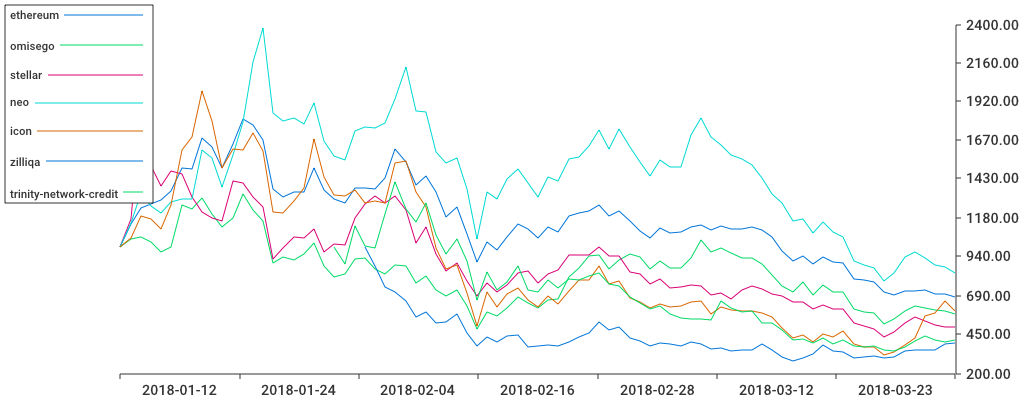
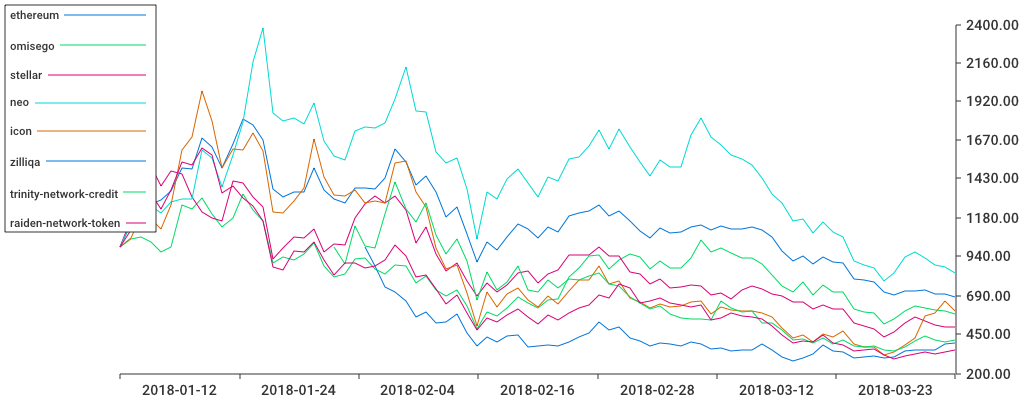
Charts updated

diff --git a/main.go b/main.go
@@ -189,9 +189,9 @@ func comparisonCharts() {
 
 func portfolioCharts() {
 	util.DrawPortfolioComparisonChart(1000.00, "2018-01-01", "large_cap", "bitcoin", "ethereum", "ripple", "litecoin", "bitcoin-cash", "zcash", "monero")
-	util.DrawPortfolioComparisonChart(1000.00, "2018-01-01", "protocol", "ethereum", "omisego", "stellar", "neo", "icon", "zilliqa", "trinity-network-credit")
+	util.DrawPortfolioComparisonChart(1000.00, "2018-01-01", "protocol", "ethereum", "omisego", "stellar", "neo", "icon", "zilliqa", "trinity-network-credit", "raiden-network-token")
 	util.DrawPortfolioComparisonChart(1000.00, "2018-01-01", "exchanges", "binance-coin", "augur", "gnosis-gno", "0x", "kyber-network", "bancor", "airswap", "republic-protocol")
 	util.DrawPortfolioComparisonChart(1000.00, "2018-01-01", "stables", "maker", "trust", "digixdao", "dai", "tether")
-	util.DrawPortfolioComparisonChart(1000.00, "2018-01-01", "utility", "basic-attention-token", "golem-network-tokens", "request-network", "funfair")
+	util.DrawPortfolioComparisonChart(1000.00, "2018-01-01", "utility", "basic-attention-token", "golem-network-tokens", "request-network", "funfair", "quantstamp")
 	util.DrawPortfolioComparisonChart(1000.00, "2018-01-01", "asia", "neo", "tron", "trinity-network-credit", "icon", "ontology", "storm", "bytom")
 }

diff --git a/charts/portfolio/utility.md b/charts/portfolio/utility.md
@@ -336,3 +336,87 @@
 * Date bought: 2018-01-01 - Current Date: 2018-01-03 00:00:00 +0000 UTC - Valuation: 1261.05 - Price: 0.11 
 * Date bought: 2018-01-01 - Current Date: 2018-01-02 00:00:00 +0000 UTC - Valuation: 1041.54 - Price: 0.09 
 * Date bought: 2018-01-01 - Current Date: 2018-01-01 00:00:00 +0000 UTC - Valuation: 1000.00 - Price: 0.09 
+### quantstamp
+* Date bought: 2018-01-01 - Current Date: 2018-03-24 00:00:00 +0000 UTC - Valuation: 359.71 - Price: 0.14 
+* Date bought: 2018-01-01 - Current Date: 2018-03-23 00:00:00 +0000 UTC - Valuation: 364.13 - Price: 0.14 
+* Date bought: 2018-01-01 - Current Date: 2018-03-22 00:00:00 +0000 UTC - Valuation: 377.49 - Price: 0.15 
+* Date bought: 2018-01-01 - Current Date: 2018-03-21 00:00:00 +0000 UTC - Valuation: 401.98 - Price: 0.16 
+* Date bought: 2018-01-01 - Current Date: 2018-03-20 00:00:00 +0000 UTC - Valuation: 393.68 - Price: 0.16 
+* Date bought: 2018-01-01 - Current Date: 2018-03-19 00:00:00 +0000 UTC - Valuation: 368.54 - Price: 0.15 
+* Date bought: 2018-01-01 - Current Date: 2018-03-18 00:00:00 +0000 UTC - Valuation: 351.17 - Price: 0.14 
+* Date bought: 2018-01-01 - Current Date: 2018-03-17 00:00:00 +0000 UTC - Valuation: 327.53 - Price: 0.13 
+* Date bought: 2018-01-01 - Current Date: 2018-03-16 00:00:00 +0000 UTC - Valuation: 364.22 - Price: 0.14 
+* Date bought: 2018-01-01 - Current Date: 2018-03-15 00:00:00 +0000 UTC - Valuation: 369.07 - Price: 0.15 
+* Date bought: 2018-01-01 - Current Date: 2018-03-14 00:00:00 +0000 UTC - Valuation: 363.30 - Price: 0.14 
+* Date bought: 2018-01-01 - Current Date: 2018-03-13 00:00:00 +0000 UTC - Valuation: 427.84 - Price: 0.17 
+* Date bought: 2018-01-01 - Current Date: 2018-03-12 00:00:00 +0000 UTC - Valuation: 444.72 - Price: 0.18 
+* Date bought: 2018-01-01 - Current Date: 2018-03-11 00:00:00 +0000 UTC - Valuation: 486.26 - Price: 0.19 
+* Date bought: 2018-01-01 - Current Date: 2018-03-10 00:00:00 +0000 UTC - Valuation: 407.71 - Price: 0.16 
+* Date bought: 2018-01-01 - Current Date: 2018-03-09 00:00:00 +0000 UTC - Valuation: 436.81 - Price: 0.17 
+* Date bought: 2018-01-01 - Current Date: 2018-03-08 00:00:00 +0000 UTC - Valuation: 427.52 - Price: 0.17 
+* Date bought: 2018-01-01 - Current Date: 2018-03-07 00:00:00 +0000 UTC - Valuation: 483.79 - Price: 0.19 
+* Date bought: 2018-01-01 - Current Date: 2018-03-06 00:00:00 +0000 UTC - Valuation: 522.40 - Price: 0.21 
+* Date bought: 2018-01-01 - Current Date: 2018-03-05 00:00:00 +0000 UTC - Valuation: 587.12 - Price: 0.23 
+* Date bought: 2018-01-01 - Current Date: 2018-03-04 00:00:00 +0000 UTC - Valuation: 602.41 - Price: 0.24 
+* Date bought: 2018-01-01 - Current Date: 2018-03-03 00:00:00 +0000 UTC - Valuation: 568.50 - Price: 0.22 
+* Date bought: 2018-01-01 - Current Date: 2018-03-02 00:00:00 +0000 UTC - Valuation: 601.49 - Price: 0.24 
+* Date bought: 2018-01-01 - Current Date: 2018-03-01 00:00:00 +0000 UTC - Valuation: 646.95 - Price: 0.26 
+* Date bought: 2018-01-01 - Current Date: 2018-02-28 00:00:00 +0000 UTC - Valuation: 637.33 - Price: 0.25 
+* Date bought: 2018-01-01 - Current Date: 2018-02-27 00:00:00 +0000 UTC - Valuation: 683.96 - Price: 0.27 
+* Date bought: 2018-01-01 - Current Date: 2018-02-26 00:00:00 +0000 UTC - Valuation: 672.41 - Price: 0.27 
+* Date bought: 2018-01-01 - Current Date: 2018-02-25 00:00:00 +0000 UTC - Valuation: 652.46 - Price: 0.26 
+* Date bought: 2018-01-01 - Current Date: 2018-02-24 00:00:00 +0000 UTC - Valuation: 648.73 - Price: 0.26 
+* Date bought: 2018-01-01 - Current Date: 2018-02-23 00:00:00 +0000 UTC - Valuation: 680.34 - Price: 0.27 
+* Date bought: 2018-01-01 - Current Date: 2018-02-22 00:00:00 +0000 UTC - Valuation: 643.75 - Price: 0.25 
+* Date bought: 2018-01-01 - Current Date: 2018-02-21 00:00:00 +0000 UTC - Valuation: 669.11 - Price: 0.26 
+* Date bought: 2018-01-01 - Current Date: 2018-02-20 00:00:00 +0000 UTC - Valuation: 713.13 - Price: 0.28 
+* Date bought: 2018-01-01 - Current Date: 2018-02-19 00:00:00 +0000 UTC - Valuation: 800.76 - Price: 0.32 
+* Date bought: 2018-01-01 - Current Date: 2018-02-18 00:00:00 +0000 UTC - Valuation: 809.11 - Price: 0.32 
+* Date bought: 2018-01-01 - Current Date: 2018-02-17 00:00:00 +0000 UTC - Valuation: 916.29 - Price: 0.36 
+* Date bought: 2018-01-01 - Current Date: 2018-02-16 00:00:00 +0000 UTC - Valuation: 804.09 - Price: 0.32 
+* Date bought: 2018-01-01 - Current Date: 2018-02-15 00:00:00 +0000 UTC - Valuation: 761.11 - Price: 0.30 
+* Date bought: 2018-01-01 - Current Date: 2018-02-14 00:00:00 +0000 UTC - Valuation: 759.76 - Price: 0.30 
+* Date bought: 2018-01-01 - Current Date: 2018-02-13 00:00:00 +0000 UTC - Valuation: 724.34 - Price: 0.29 
+* Date bought: 2018-01-01 - Current Date: 2018-02-12 00:00:00 +0000 UTC - Valuation: 775.20 - Price: 0.31 
+* Date bought: 2018-01-01 - Current Date: 2018-02-11 00:00:00 +0000 UTC - Valuation: 706.13 - Price: 0.28 
+* Date bought: 2018-01-01 - Current Date: 2018-02-10 00:00:00 +0000 UTC - Valuation: 736.07 - Price: 0.29 
+* Date bought: 2018-01-01 - Current Date: 2018-02-09 00:00:00 +0000 UTC - Valuation: 856.94 - Price: 0.34 
+* Date bought: 2018-01-01 - Current Date: 2018-02-08 00:00:00 +0000 UTC - Valuation: 800.44 - Price: 0.32 
+* Date bought: 2018-01-01 - Current Date: 2018-02-07 00:00:00 +0000 UTC - Valuation: 705.43 - Price: 0.28 
+* Date bought: 2018-01-01 - Current Date: 2018-02-06 00:00:00 +0000 UTC - Valuation: 714.71 - Price: 0.28 
+* Date bought: 2018-01-01 - Current Date: 2018-02-05 00:00:00 +0000 UTC - Valuation: 494.47 - Price: 0.20 
+* Date bought: 2018-01-01 - Current Date: 2018-02-04 00:00:00 +0000 UTC - Valuation: 641.86 - Price: 0.25 
+* Date bought: 2018-01-01 - Current Date: 2018-02-03 00:00:00 +0000 UTC - Valuation: 721.80 - Price: 0.29 
+* Date bought: 2018-01-01 - Current Date: 2018-02-02 00:00:00 +0000 UTC - Valuation: 699.09 - Price: 0.28 
+* Date bought: 2018-01-01 - Current Date: 2018-02-01 00:00:00 +0000 UTC - Valuation: 721.80 - Price: 0.29 
+* Date bought: 2018-01-01 - Current Date: 2018-01-31 00:00:00 +0000 UTC - Valuation: 859.89 - Price: 0.34 
+* Date bought: 2018-01-01 - Current Date: 2018-01-30 00:00:00 +0000 UTC - Valuation: 844.23 - Price: 0.33 
+* Date bought: 2018-01-01 - Current Date: 2018-01-29 00:00:00 +0000 UTC - Valuation: 1027.27 - Price: 0.41 
+* Date bought: 2018-01-01 - Current Date: 2018-01-28 00:00:00 +0000 UTC - Valuation: 1079.86 - Price: 0.43 
+* Date bought: 2018-01-01 - Current Date: 2018-01-27 00:00:00 +0000 UTC - Valuation: 1089.86 - Price: 0.43 
+* Date bought: 2018-01-01 - Current Date: 2018-01-26 00:00:00 +0000 UTC - Valuation: 1071.38 - Price: 0.42 
+* Date bought: 2018-01-01 - Current Date: 2018-01-25 00:00:00 +0000 UTC - Valuation: 1099.86 - Price: 0.43 
+* Date bought: 2018-01-01 - Current Date: 2018-01-24 00:00:00 +0000 UTC - Valuation: 1138.21 - Price: 0.45 
+* Date bought: 2018-01-01 - Current Date: 2018-01-23 00:00:00 +0000 UTC - Valuation: 1092.80 - Price: 0.43 
+* Date bought: 2018-01-01 - Current Date: 2018-01-22 00:00:00 +0000 UTC - Valuation: 1078.03 - Price: 0.43 
+* Date bought: 2018-01-01 - Current Date: 2018-01-21 00:00:00 +0000 UTC - Valuation: 1151.39 - Price: 0.45 
+* Date bought: 2018-01-01 - Current Date: 2018-01-20 00:00:00 +0000 UTC - Valuation: 1313.14 - Price: 0.52 
+* Date bought: 2018-01-01 - Current Date: 2018-01-19 00:00:00 +0000 UTC - Valuation: 1262.10 - Price: 0.50 
+* Date bought: 2018-01-01 - Current Date: 2018-01-18 00:00:00 +0000 UTC - Valuation: 1291.21 - Price: 0.51 
+* Date bought: 2018-01-01 - Current Date: 2018-01-17 00:00:00 +0000 UTC - Valuation: 1144.19 - Price: 0.45 
+* Date bought: 2018-01-01 - Current Date: 2018-01-16 00:00:00 +0000 UTC - Valuation: 1046.31 - Price: 0.41 
+* Date bought: 2018-01-01 - Current Date: 2018-01-15 00:00:00 +0000 UTC - Valuation: 1057.50 - Price: 0.42 
+* Date bought: 2018-01-01 - Current Date: 2018-01-14 00:00:00 +0000 UTC - Valuation: 1241.60 - Price: 0.49 
+* Date bought: 2018-01-01 - Current Date: 2018-01-13 00:00:00 +0000 UTC - Valuation: 1437.59 - Price: 0.57 
+* Date bought: 2018-01-01 - Current Date: 2018-01-12 00:00:00 +0000 UTC - Valuation: 1543.94 - Price: 0.61 
+* Date bought: 2018-01-01 - Current Date: 2018-01-11 00:00:00 +0000 UTC - Valuation: 1378.23 - Price: 0.54 
+* Date bought: 2018-01-01 - Current Date: 2018-01-10 00:00:00 +0000 UTC - Valuation: 1600.10 - Price: 0.63 
+* Date bought: 2018-01-01 - Current Date: 2018-01-09 00:00:00 +0000 UTC - Valuation: 1685.82 - Price: 0.67 
+* Date bought: 2018-01-01 - Current Date: 2018-01-08 00:00:00 +0000 UTC - Valuation: 1863.51 - Price: 0.74 
+* Date bought: 2018-01-01 - Current Date: 2018-01-07 00:00:00 +0000 UTC - Valuation: 1852.91 - Price: 0.73 
+* Date bought: 2018-01-01 - Current Date: 2018-01-06 00:00:00 +0000 UTC - Valuation: 1478.82 - Price: 0.58 
+* Date bought: 2018-01-01 - Current Date: 2018-01-05 00:00:00 +0000 UTC - Valuation: 1178.89 - Price: 0.47 
+* Date bought: 2018-01-01 - Current Date: 2018-01-04 00:00:00 +0000 UTC - Valuation: 1315.87 - Price: 0.52 
+* Date bought: 2018-01-01 - Current Date: 2018-01-03 00:00:00 +0000 UTC - Valuation: 1311.28 - Price: 0.52 
+* Date bought: 2018-01-01 - Current Date: 2018-01-02 00:00:00 +0000 UTC - Valuation: 1110.09 - Price: 0.44 
+* Date bought: 2018-01-01 - Current Date: 2018-01-01 00:00:00 +0000 UTC - Valuation: 1000.00 - Price: 0.39 

diff --git a/charts/portfolio/protocol.md b/charts/portfolio/protocol.md
@@ -543,3 +543,87 @@
 * Date bought: 2018-01-01 - Current Date: 2018-01-24 00:00:00 +0000 UTC - Valuation: 1129.96 - Price: 0.31 
 * Date bought: 2018-01-01 - Current Date: 2018-01-23 00:00:00 +0000 UTC - Valuation: 888.33 - Price: 0.24 
 * Date bought: 2018-01-01 - Current Date: 2018-01-22 00:00:00 +0000 UTC - Valuation: 1000.00 - Price: 0.27 
+### raiden-network-token
+* Date bought: 2018-01-01 - Current Date: 2018-03-24 00:00:00 +0000 UTC - Valuation: 350.31 - Price: 1.72 
+* Date bought: 2018-01-01 - Current Date: 2018-03-23 00:00:00 +0000 UTC - Valuation: 336.05 - Price: 1.65 
+* Date bought: 2018-01-01 - Current Date: 2018-03-22 00:00:00 +0000 UTC - Valuation: 325.87 - Price: 1.60 
+* Date bought: 2018-01-01 - Current Date: 2018-03-21 00:00:00 +0000 UTC - Valuation: 334.01 - Price: 1.64 
+* Date bought: 2018-01-01 - Current Date: 2018-03-20 00:00:00 +0000 UTC - Valuation: 321.79 - Price: 1.58 
+* Date bought: 2018-01-01 - Current Date: 2018-03-19 00:00:00 +0000 UTC - Valuation: 307.54 - Price: 1.51 
+* Date bought: 2018-01-01 - Current Date: 2018-03-18 00:00:00 +0000 UTC - Valuation: 293.28 - Price: 1.44 
+* Date bought: 2018-01-01 - Current Date: 2018-03-17 00:00:00 +0000 UTC - Valuation: 317.72 - Price: 1.56 
+* Date bought: 2018-01-01 - Current Date: 2018-03-16 00:00:00 +0000 UTC - Valuation: 356.42 - Price: 1.75 
+* Date bought: 2018-01-01 - Current Date: 2018-03-15 00:00:00 +0000 UTC - Valuation: 346.23 - Price: 1.70 
+* Date bought: 2018-01-01 - Current Date: 2018-03-14 00:00:00 +0000 UTC - Valuation: 344.20 - Price: 1.69 
+* Date bought: 2018-01-01 - Current Date: 2018-03-13 00:00:00 +0000 UTC - Valuation: 380.86 - Price: 1.87 
+* Date bought: 2018-01-01 - Current Date: 2018-03-12 00:00:00 +0000 UTC - Valuation: 395.11 - Price: 1.94 
+* Date bought: 2018-01-01 - Current Date: 2018-03-11 00:00:00 +0000 UTC - Valuation: 439.92 - Price: 2.16 
+* Date bought: 2018-01-01 - Current Date: 2018-03-10 00:00:00 +0000 UTC - Valuation: 401.22 - Price: 1.97 
+* Date bought: 2018-01-01 - Current Date: 2018-03-09 00:00:00 +0000 UTC - Valuation: 403.26 - Price: 1.98 
+* Date bought: 2018-01-01 - Current Date: 2018-03-08 00:00:00 +0000 UTC - Valuation: 391.04 - Price: 1.92 
+* Date bought: 2018-01-01 - Current Date: 2018-03-07 00:00:00 +0000 UTC - Valuation: 441.96 - Price: 2.17 
+* Date bought: 2018-01-01 - Current Date: 2018-03-06 00:00:00 +0000 UTC - Valuation: 501.02 - Price: 2.46 
+* Date bought: 2018-01-01 - Current Date: 2018-03-05 00:00:00 +0000 UTC - Valuation: 545.82 - Price: 2.68 
+* Date bought: 2018-01-01 - Current Date: 2018-03-04 00:00:00 +0000 UTC - Valuation: 556.01 - Price: 2.73 
+* Date bought: 2018-01-01 - Current Date: 2018-03-03 00:00:00 +0000 UTC - Valuation: 560.08 - Price: 2.75 
+* Date bought: 2018-01-01 - Current Date: 2018-03-02 00:00:00 +0000 UTC - Valuation: 580.45 - Price: 2.85 
+* Date bought: 2018-01-01 - Current Date: 2018-03-01 00:00:00 +0000 UTC - Valuation: 549.90 - Price: 2.70 
+* Date bought: 2018-01-01 - Current Date: 2018-02-28 00:00:00 +0000 UTC - Valuation: 539.71 - Price: 2.65 
+* Date bought: 2018-01-01 - Current Date: 2018-02-27 00:00:00 +0000 UTC - Valuation: 631.36 - Price: 3.10 
+* Date bought: 2018-01-01 - Current Date: 2018-02-26 00:00:00 +0000 UTC - Valuation: 621.18 - Price: 3.05 
+* Date bought: 2018-01-01 - Current Date: 2018-02-25 00:00:00 +0000 UTC - Valuation: 629.33 - Price: 3.09 
+* Date bought: 2018-01-01 - Current Date: 2018-02-24 00:00:00 +0000 UTC - Valuation: 643.58 - Price: 3.16 
+* Date bought: 2018-01-01 - Current Date: 2018-02-23 00:00:00 +0000 UTC - Valuation: 674.13 - Price: 3.31 
+* Date bought: 2018-01-01 - Current Date: 2018-02-22 00:00:00 +0000 UTC - Valuation: 655.80 - Price: 3.22 
+* Date bought: 2018-01-01 - Current Date: 2018-02-21 00:00:00 +0000 UTC - Valuation: 641.55 - Price: 3.15 
+* Date bought: 2018-01-01 - Current Date: 2018-02-20 00:00:00 +0000 UTC - Valuation: 741.34 - Price: 3.64 
+* Date bought: 2018-01-01 - Current Date: 2018-02-19 00:00:00 +0000 UTC - Valuation: 761.71 - Price: 3.74 
+* Date bought: 2018-01-01 - Current Date: 2018-02-18 00:00:00 +0000 UTC - Valuation: 678.21 - Price: 3.33 
+* Date bought: 2018-01-01 - Current Date: 2018-02-17 00:00:00 +0000 UTC - Valuation: 692.46 - Price: 3.40 
+* Date bought: 2018-01-01 - Current Date: 2018-02-16 00:00:00 +0000 UTC - Valuation: 633.40 - Price: 3.11 
+* Date bought: 2018-01-01 - Current Date: 2018-02-15 00:00:00 +0000 UTC - Valuation: 615.07 - Price: 3.02 
+* Date bought: 2018-01-01 - Current Date: 2018-02-14 00:00:00 +0000 UTC - Valuation: 582.48 - Price: 2.86 
+* Date bought: 2018-01-01 - Current Date: 2018-02-13 00:00:00 +0000 UTC - Valuation: 539.71 - Price: 2.65 
+* Date bought: 2018-01-01 - Current Date: 2018-02-12 00:00:00 +0000 UTC - Valuation: 566.19 - Price: 2.78 
+* Date bought: 2018-01-01 - Current Date: 2018-02-11 00:00:00 +0000 UTC - Valuation: 513.24 - Price: 2.52 
+* Date bought: 2018-01-01 - Current Date: 2018-02-10 00:00:00 +0000 UTC - Valuation: 553.97 - Price: 2.72 
+* Date bought: 2018-01-01 - Current Date: 2018-02-09 00:00:00 +0000 UTC - Valuation: 608.96 - Price: 2.99 
+* Date bought: 2018-01-01 - Current Date: 2018-02-08 00:00:00 +0000 UTC - Valuation: 568.23 - Price: 2.79 
+* Date bought: 2018-01-01 - Current Date: 2018-02-07 00:00:00 +0000 UTC - Valuation: 523.42 - Price: 2.57 
+* Date bought: 2018-01-01 - Current Date: 2018-02-06 00:00:00 +0000 UTC - Valuation: 547.86 - Price: 2.69 
+* Date bought: 2018-01-01 - Current Date: 2018-02-05 00:00:00 +0000 UTC - Valuation: 472.51 - Price: 2.32 
+* Date bought: 2018-01-01 - Current Date: 2018-02-04 00:00:00 +0000 UTC - Valuation: 584.52 - Price: 2.87 
+* Date bought: 2018-01-01 - Current Date: 2018-02-03 00:00:00 +0000 UTC - Valuation: 692.46 - Price: 3.40 
+* Date bought: 2018-01-01 - Current Date: 2018-02-02 00:00:00 +0000 UTC - Valuation: 639.51 - Price: 3.14 
+* Date bought: 2018-01-01 - Current Date: 2018-02-01 00:00:00 +0000 UTC - Valuation: 731.16 - Price: 3.59 
+* Date bought: 2018-01-01 - Current Date: 2018-01-31 00:00:00 +0000 UTC - Valuation: 822.81 - Price: 4.04 
+* Date bought: 2018-01-01 - Current Date: 2018-01-30 00:00:00 +0000 UTC - Valuation: 806.52 - Price: 3.96 
+* Date bought: 2018-01-01 - Current Date: 2018-01-29 00:00:00 +0000 UTC - Valuation: 942.97 - Price: 4.63 
+* Date bought: 2018-01-01 - Current Date: 2018-01-28 00:00:00 +0000 UTC - Valuation: 1008.15 - Price: 4.95 
+* Date bought: 2018-01-01 - Current Date: 2018-01-27 00:00:00 +0000 UTC - Valuation: 918.53 - Price: 4.51 
+* Date bought: 2018-01-01 - Current Date: 2018-01-26 00:00:00 +0000 UTC - Valuation: 879.84 - Price: 4.32 
+* Date bought: 2018-01-01 - Current Date: 2018-01-25 00:00:00 +0000 UTC - Valuation: 867.62 - Price: 4.26 
+* Date bought: 2018-01-01 - Current Date: 2018-01-24 00:00:00 +0000 UTC - Valuation: 898.17 - Price: 4.41 
+* Date bought: 2018-01-01 - Current Date: 2018-01-23 00:00:00 +0000 UTC - Valuation: 896.13 - Price: 4.40 
+* Date bought: 2018-01-01 - Current Date: 2018-01-22 00:00:00 +0000 UTC - Valuation: 822.81 - Price: 4.04 
+* Date bought: 2018-01-01 - Current Date: 2018-01-21 00:00:00 +0000 UTC - Valuation: 912.42 - Price: 4.48 
+* Date bought: 2018-01-01 - Current Date: 2018-01-20 00:00:00 +0000 UTC - Valuation: 1026.48 - Price: 5.04 
+* Date bought: 2018-01-01 - Current Date: 2018-01-19 00:00:00 +0000 UTC - Valuation: 967.41 - Price: 4.75 
+* Date bought: 2018-01-01 - Current Date: 2018-01-18 00:00:00 +0000 UTC - Valuation: 971.49 - Price: 4.77 
+* Date bought: 2018-01-01 - Current Date: 2018-01-17 00:00:00 +0000 UTC - Valuation: 853.36 - Price: 4.19 
+* Date bought: 2018-01-01 - Current Date: 2018-01-16 00:00:00 +0000 UTC - Valuation: 873.73 - Price: 4.29 
+* Date bought: 2018-01-01 - Current Date: 2018-01-15 00:00:00 +0000 UTC - Valuation: 1158.86 - Price: 5.69 
+* Date bought: 2018-01-01 - Current Date: 2018-01-14 00:00:00 +0000 UTC - Valuation: 1258.66 - Price: 6.18 
+* Date bought: 2018-01-01 - Current Date: 2018-01-13 00:00:00 +0000 UTC - Valuation: 1307.54 - Price: 6.42 
+* Date bought: 2018-01-01 - Current Date: 2018-01-12 00:00:00 +0000 UTC - Valuation: 1380.86 - Price: 6.78 
+* Date bought: 2018-01-01 - Current Date: 2018-01-11 00:00:00 +0000 UTC - Valuation: 1340.12 - Price: 6.58 
+* Date bought: 2018-01-01 - Current Date: 2018-01-10 00:00:00 +0000 UTC - Valuation: 1578.41 - Price: 7.75 
+* Date bought: 2018-01-01 - Current Date: 2018-01-09 00:00:00 +0000 UTC - Valuation: 1623.22 - Price: 7.97 
+* Date bought: 2018-01-01 - Current Date: 2018-01-08 00:00:00 +0000 UTC - Valuation: 1511.20 - Price: 7.42 
+* Date bought: 2018-01-01 - Current Date: 2018-01-07 00:00:00 +0000 UTC - Valuation: 1535.64 - Price: 7.54 
+* Date bought: 2018-01-01 - Current Date: 2018-01-06 00:00:00 +0000 UTC - Valuation: 1354.38 - Price: 6.65 
+* Date bought: 2018-01-01 - Current Date: 2018-01-05 00:00:00 +0000 UTC - Valuation: 1236.25 - Price: 6.07 
+* Date bought: 2018-01-01 - Current Date: 2018-01-04 00:00:00 +0000 UTC - Valuation: 1329.94 - Price: 6.53 
+* Date bought: 2018-01-01 - Current Date: 2018-01-03 00:00:00 +0000 UTC - Valuation: 1126.27 - Price: 5.53 
+* Date bought: 2018-01-01 - Current Date: 2018-01-02 00:00:00 +0000 UTC - Valuation: 1105.91 - Price: 5.43 
+* Date bought: 2018-01-01 - Current Date: 2018-01-01 00:00:00 +0000 UTC - Valuation: 1000.00 - Price: 4.91 
